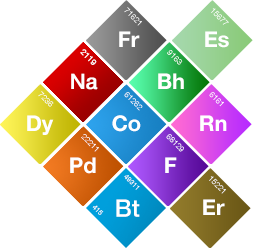
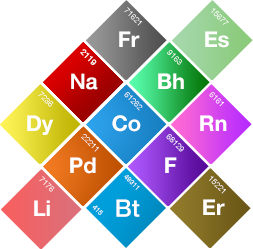
Lithium

diff --git a/README.md b/README.md
@@ -76,3 +76,10 @@ Just because.
 > A collection of swift extensions.
 
 🔗 **[e-sites/Einsteinium](https://github.com/e-sites/Einsteinium)**
+
+
+## `Li` → Lithium
+_The_ E-sites logging framework.
+
+🔗 **[e-sites/Lithium](https://github.com/e-sites/Lithium)**
+
